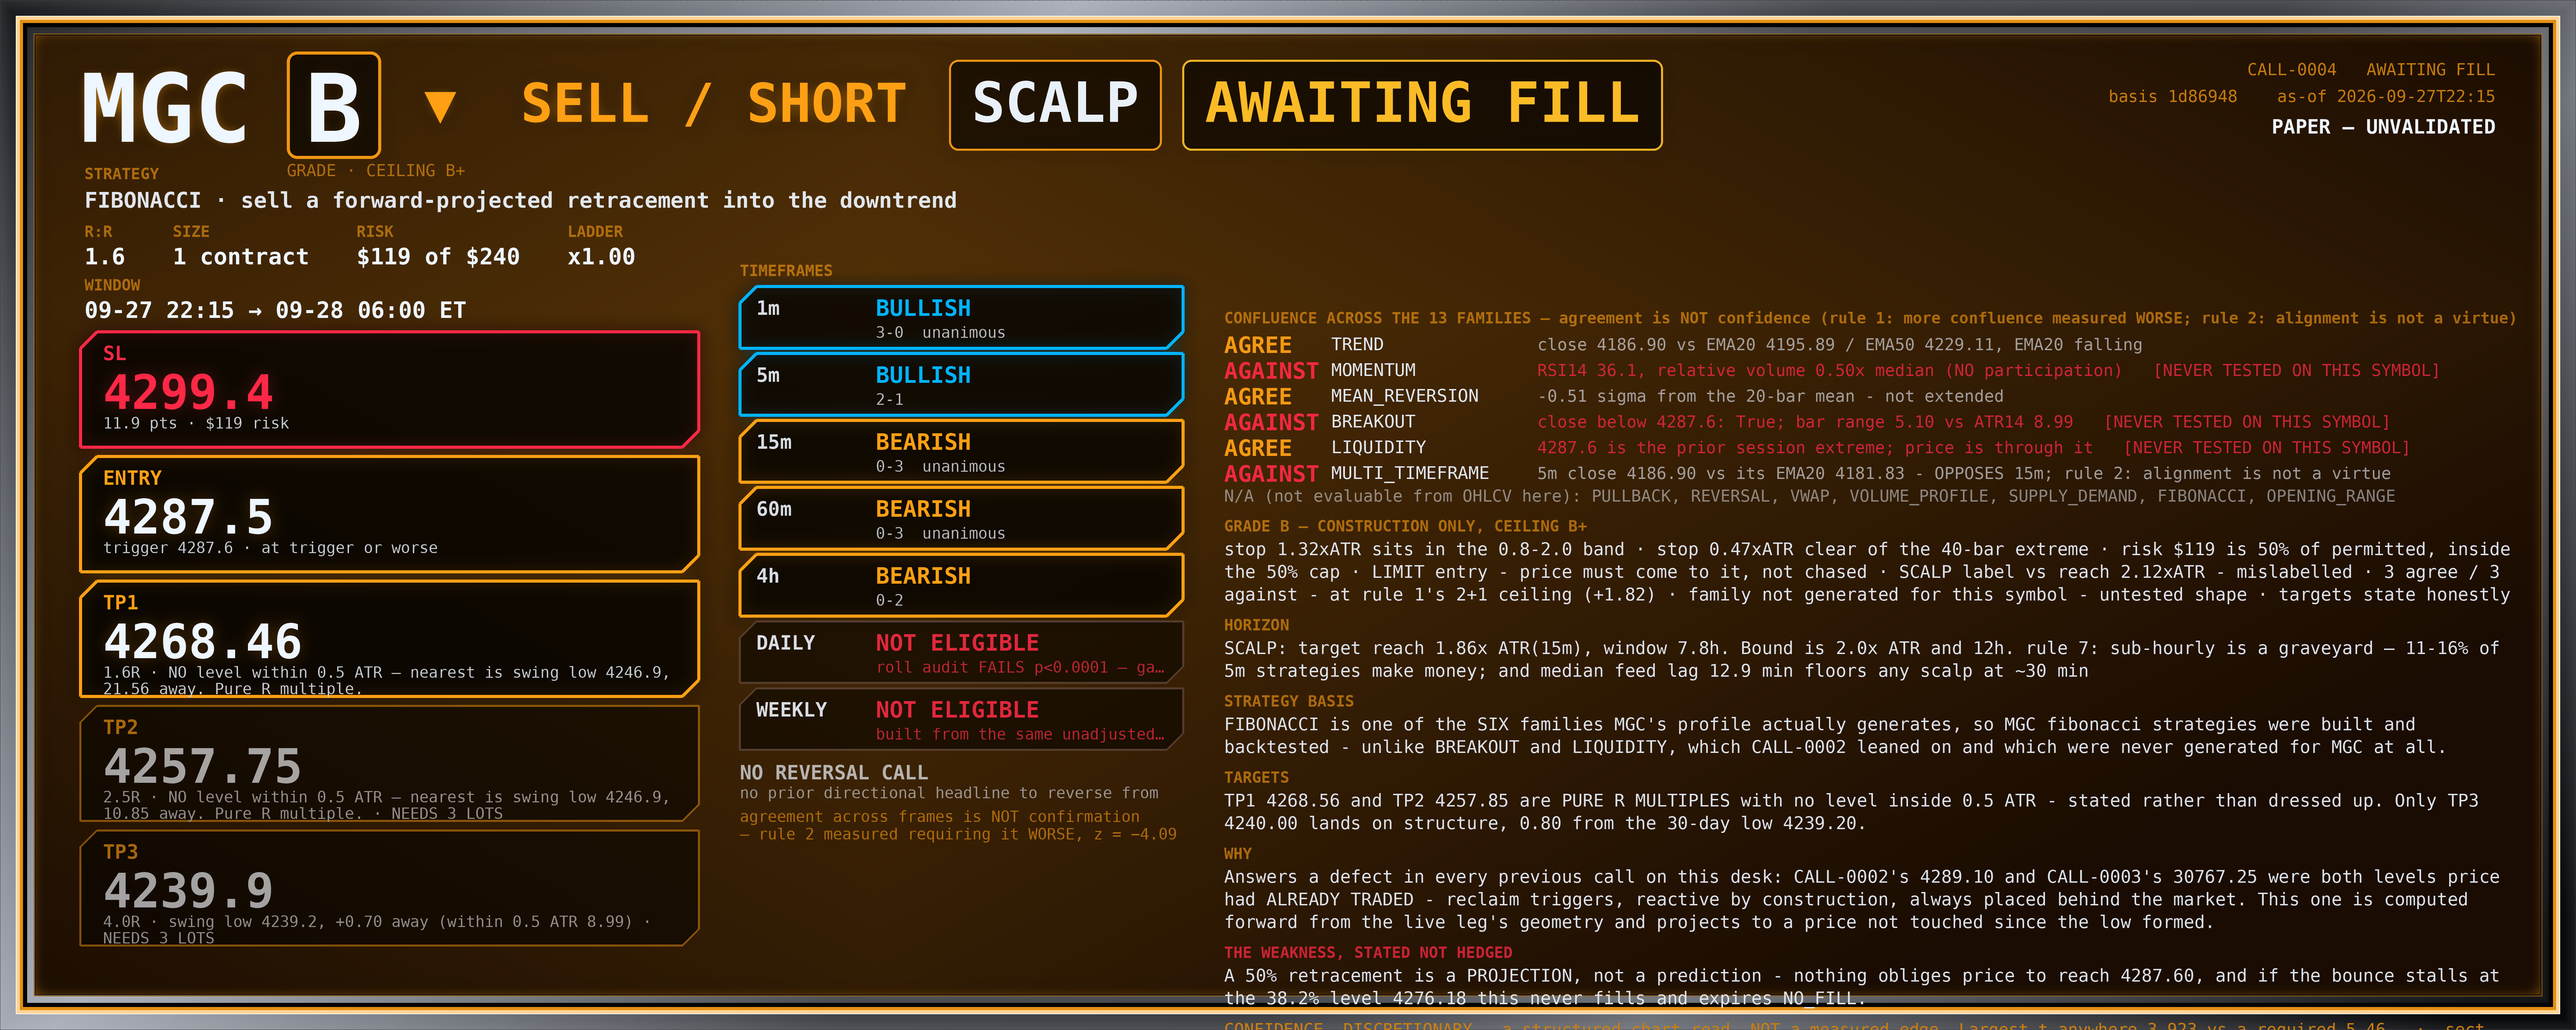
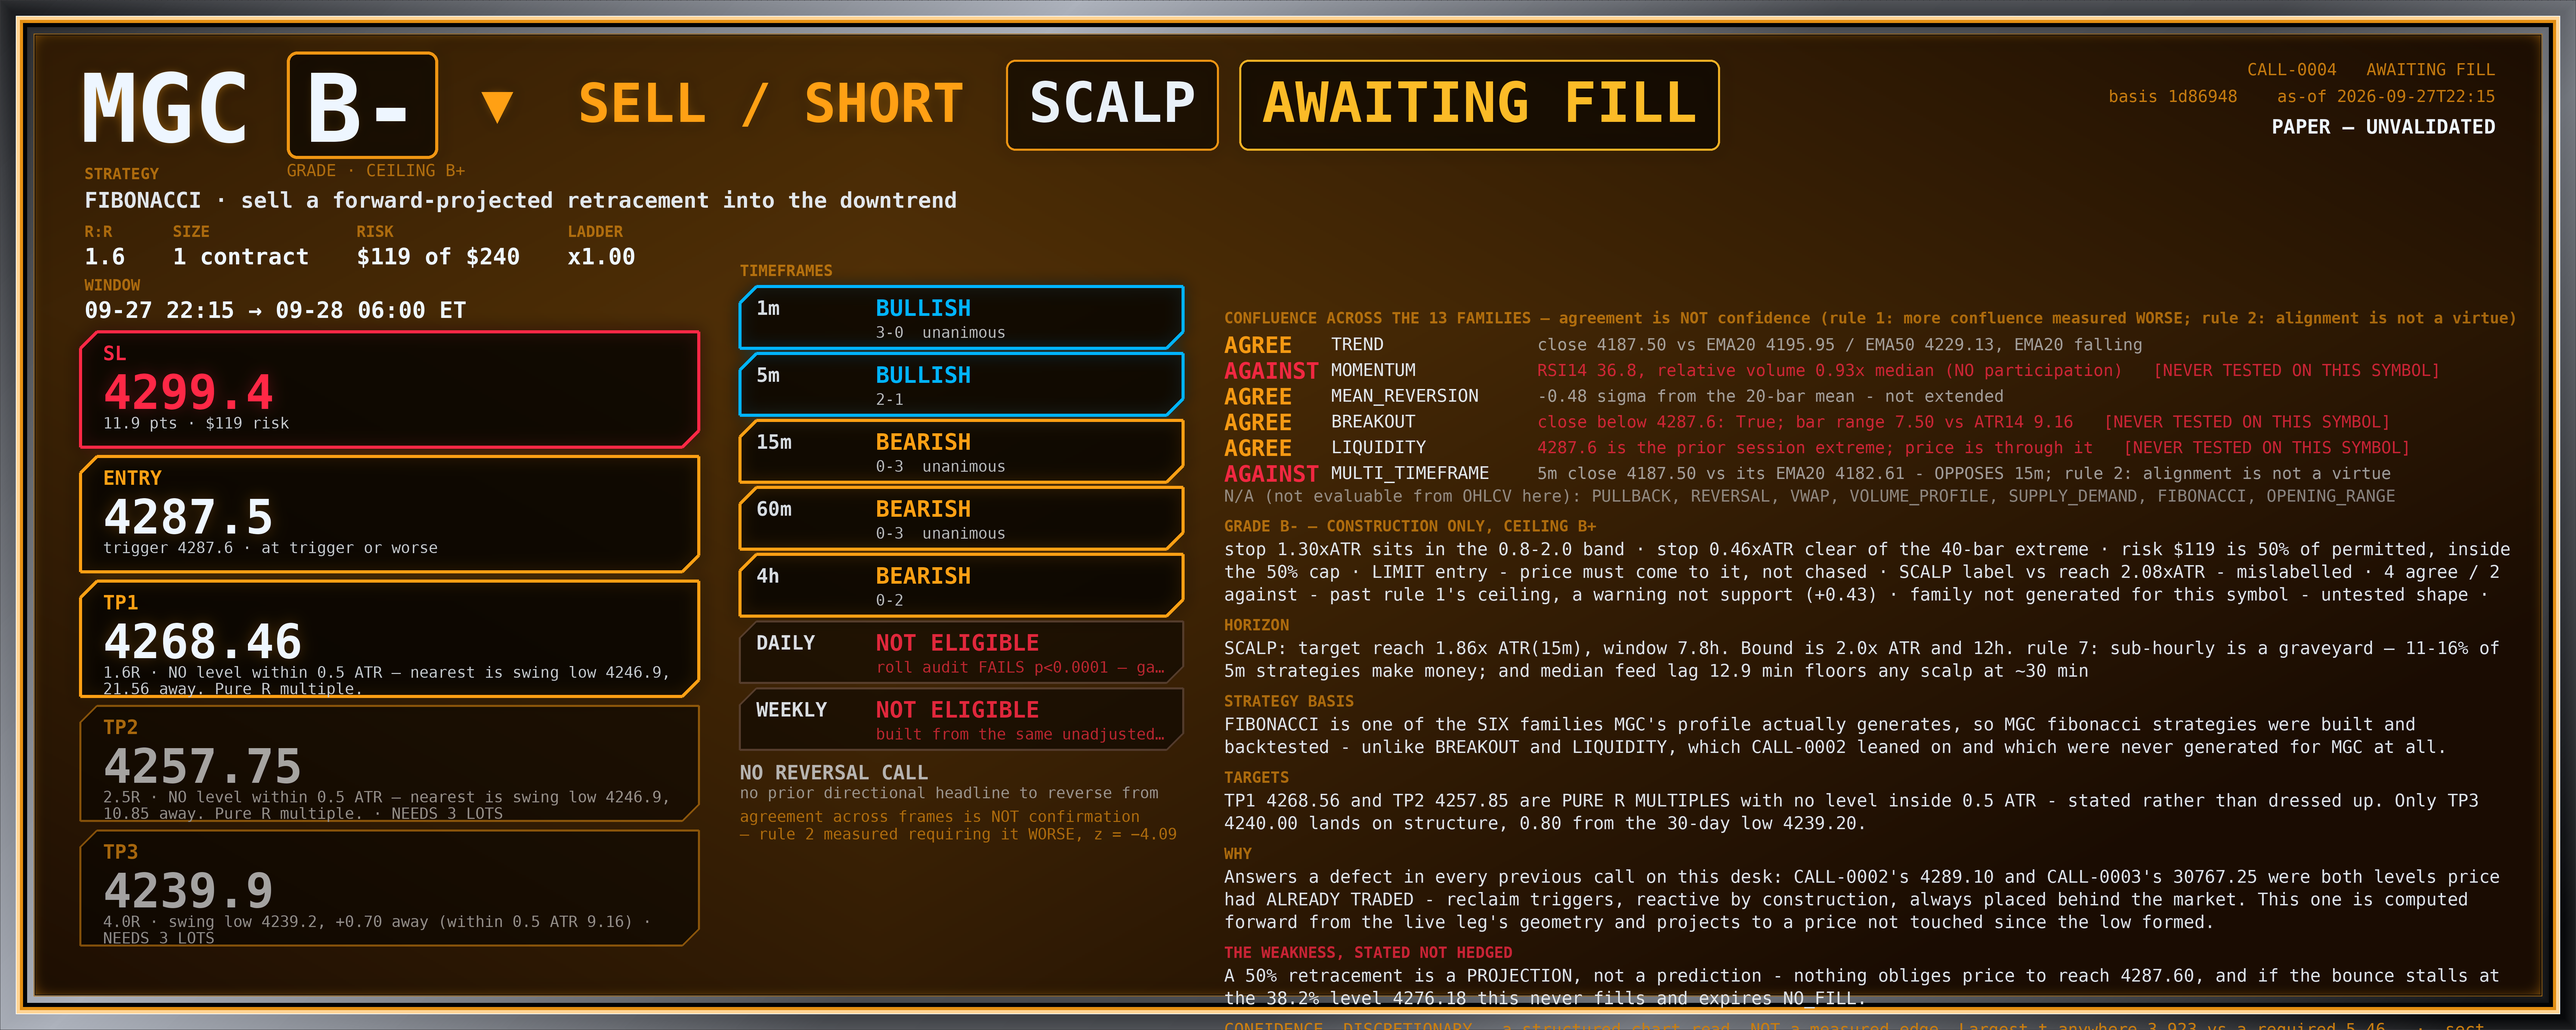
CALL desk: N89 - MGC's apparent lower-high break is inside revision range, and T+28 is now a measured threshold
MGC's newest 15m bar prints a high of 4190.00, above its confirmed lower high of
4185.20. That bears directly on N75 condition 1 (lower high AND lower low), so I
measured the HIGH revision distribution, which N70 never did - it covered lows only.

15m high revisions: MGC max overall 10.90 and max excluding session-open bars 6.20
(n=56); MNQ 36.25 and 19.75 (n=54). MGC's break is 4.80 points against a 6.20
maximum - INSIDE revision range, so by N70's bands it is not a break. Condition 1
still holds provisionally and will be re-tested when the 05:45 bar settles.

The 18:00 ET session-open bar is again the single largest revision on both symbols
and both sides - lows 74.00/20.00, highs 36.25/10.90. Three independent
measurements, one conclusion: exclude it from every calibration.

Measured the settle threshold rather than leaving it a coincidence. For every 15m
bar, the delay from completion to its LAST observed revision: median +12.3m and
90th percentile +14.2m on both symbols, n=40 each. Completion is stamp+15, so a bar
is settled near stamp+29 at the 90th percentile - within a minute of the T+28 I
have been using, which I am keeping, now with a reason behind it. Long tail (max
~300m) belongs to session-open and window-edge bars.

This also retires N49's loose end: settling is T + bar_length + revision_tail, not
T + bar_length + feed_lag. The 5m frame's ~12m lag I used as a stand-in happens to
[…]

diff --git a/workspace/paper/CALL/NOTES.md b/workspace/paper/CALL/NOTES.md
@@ -3782,3 +3782,66 @@ No call. The reversal test is false on both symbols. MGC has now retraced 14.30 
 is 1.55x ATR, and its 15m structure is still lower highs and lower lows. The pre-committed plan remains
 VOID on the risk cap; **CALL-0004's expiry is now expected at ~06:31-06:35** per N86, and I will report the
 resolver's own line when it appears.
+
+## N89 — MGC's newest bar high is above its lower high, and N70's test says that is NOT a break. Also: the T+28 settle threshold is now MEASURED, not coincidental
+
+MGC's newest 15m bar (`05:45`, completed 06:00, still revising) prints a high of **4190.00**, which is
+above the most recent confirmed lower high of **4185.20**. That matters directly: **N75's condition 1
+requires a lower high AND a lower low**, so if MGC's lower-high sequence is broken there is no plan at
+all, regardless of the risk cap.
+
+So I measured the high-revision distribution, which N70 never did — it covered lows only, because a low
+was what was in question then.
+
+| 15m HIGH revisions | MGC | MNQ |
+|---|---|---|
+| largest overall | 10.90 (`09-27T18:00`) | 36.25 (`09-27T18:00`) |
+| **largest excluding session-open bars** | **6.20** | **19.75** |
+| observations | 56 | 54 |
+
+**MGC's break is 4190.00 − 4185.20 = 4.80 points, against a 6.20-point maximum comparable high revision.
+That is INSIDE revision range, so by N70's own bands it is not a break.** The same pattern as the two
+breaks at 05:16: the chart shows a level exceeded, the distribution says the number could still move
+that far on its own. Condition 1 therefore still holds, provisionally, and will be re-tested when the
+`05:45` bar settles.
+
+Note the asymmetry now on record: the session-open bar is again the single largest revision on both
+symbols and both sides — lows 74.00/20.00, highs 36.25/10.90. Three independent measurements, one
+conclusion: **the 18:00 ET bar is a different object and must be excluded from every calibration.**
+
+### The settle threshold, measured
+
+`T + 28` was chosen by reasoning I later found to be wrong (N87), and I said it was "coincidentally about
+right." It is not coincidence — it is right, and here is the measurement. For every 15m bar, the time of
+its **last** observed revision relative to its completion:
+
+| | MGC | MNQ |
+|---|---|---|
+| median | **+12.3m** | **+12.3m** |
+| 90th percentile | **+14.2m** | **+14.2m** |
+| n | 40 | 40 |
+
+A 15m bar stops changing about 12 minutes after it completes, and 90% are done by 14.2 minutes.
+Completion is `stamp + 15`, so a bar is settled at about **`stamp + 29`** at the 90th percentile. The
+`T + 28` threshold I have been using is within one minute of the measured figure and I am keeping it,
+now with a reason rather than an accident behind it. (The distribution has a long tail — max ~300m —
+which belongs to the session-open and window-edge bars that revise for other reasons.)
+
+This also retires a loose end: N49 defined settling as `T + bar_length + feed_lag` using the 5m frame's
+~12-minute lag as a stand-in. The correct form is `T + bar_length + revision_tail`, and the revision tail
+happens to be ~12-14 minutes on this feed for 15m bars, which is why the wrong derivation gave the right
+number.
+
+## N90 — 06:05 state: both symbols continuing to lift, settled structure unchanged
+
+CALL-0004 has **not** expired: the newest 15m bar is `05:45` and per N86 expiry needs a bar stamped after
+06:00, i.e. the `06:15` bar, expected in hand ~06:31-06:35.
+
+MGC newest 15m `05:45` h 4190.00 l 4182.50 c 4187.50 — up 14.90 from the 4172.60 low, 1.62x ATR. MNQ
+c 30594.00. Locations MGC 12.2% of [4172.60, 4295.20], MNQ 16.1% of [30535.00, 30900.50]. Fast frames
+bullish on both (MGC 1m unanimous 3-0, 5m 2-1; MNQ 1m 2-1, 5m 2-0); **15m and 60m still unanimous bearish
+on both symbols and have not changed once in the entire session.**
+
+No call. The reversal test is false on both. The bounce is now 1.62x ATR on MGC and is the rule 8 sweep
+continuation; the structure that would have to change for a plan to exist has not changed on settled data,
+and the one apparent change is inside measured revision noise.
